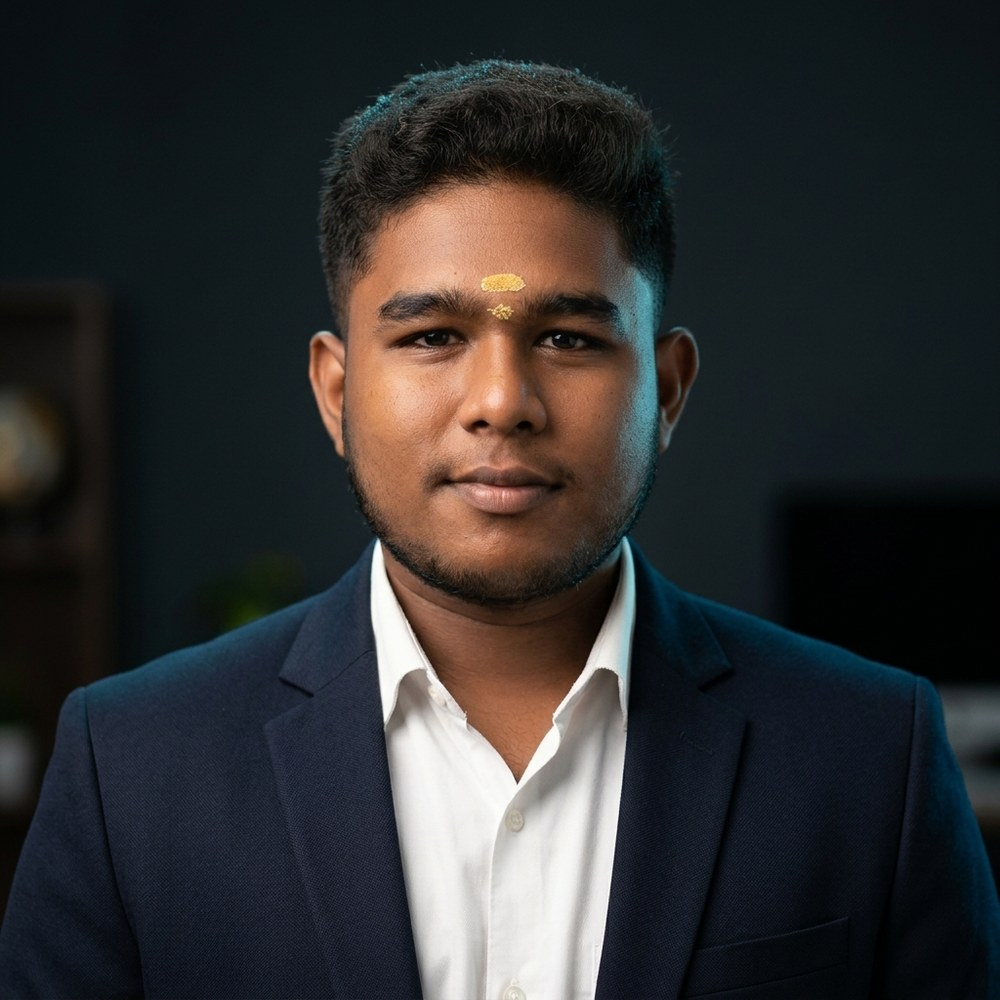
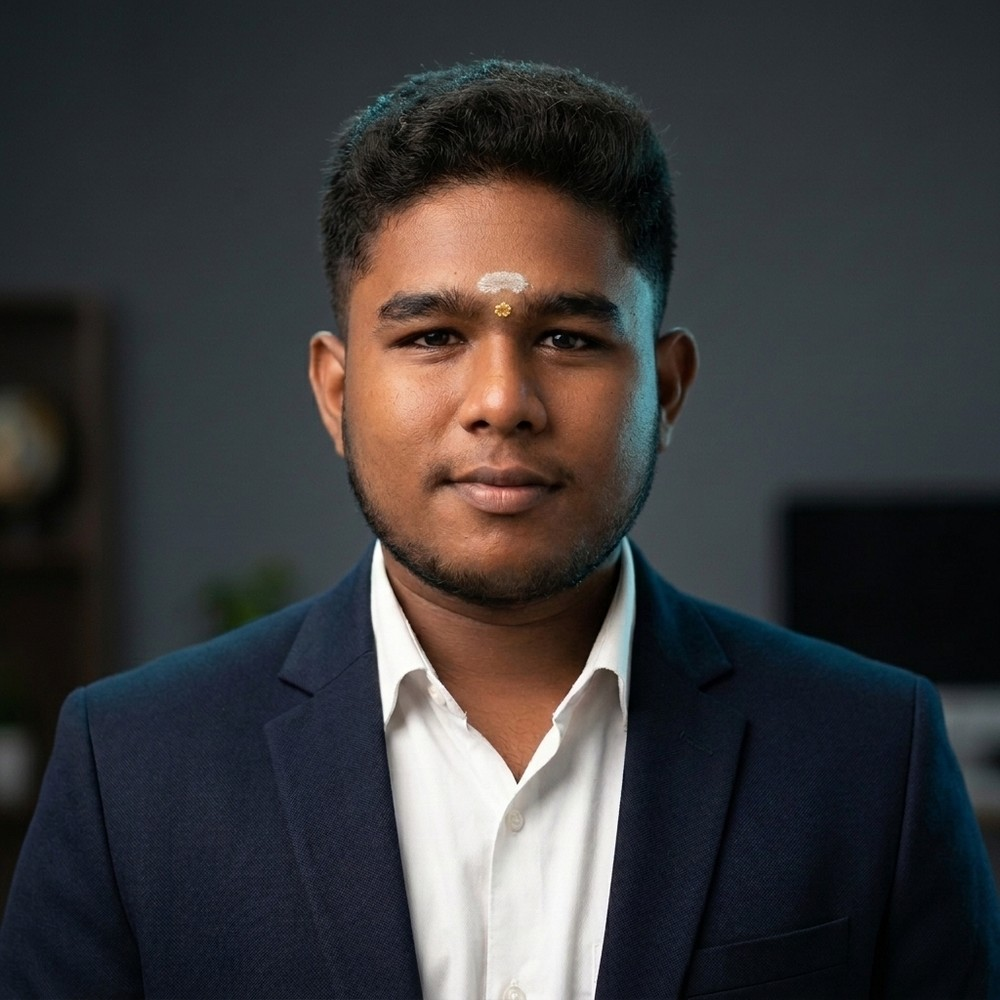
fix: refine forehead tilak mark to natural compact holy ash white with sandalwood dot

diff --git a/src/utils/assetUrl.ts b/src/utils/assetUrl.ts
@@ -1,4 +1,4 @@
-const ASSET_VERSION = 'v2.4';
+const ASSET_VERSION = 'v2.5';
 
 /**
  * Resolves static asset paths with 100% reliability across all hosting environments:
